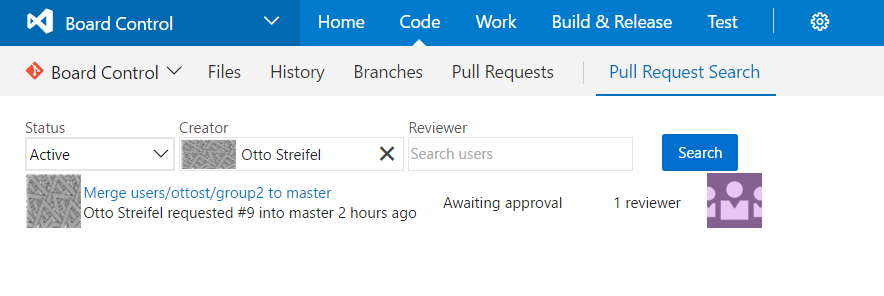
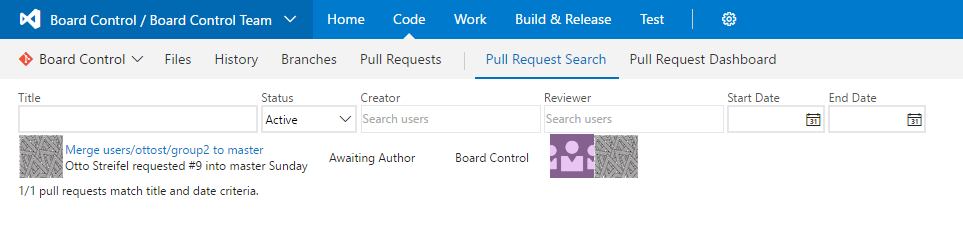
v1.4.5 Updates details page.

diff --git a/details.md b/details.md
@@ -1,4 +1,4 @@
-Allows pull requests to be filtered by creator and reviewer.
+Allows pull requests to be filtered by creator, reviewer, title, start date and end date.
 ![Image of inputs](img/inputs.png)
 
 Searches are scoped to all repositories of the current project.
